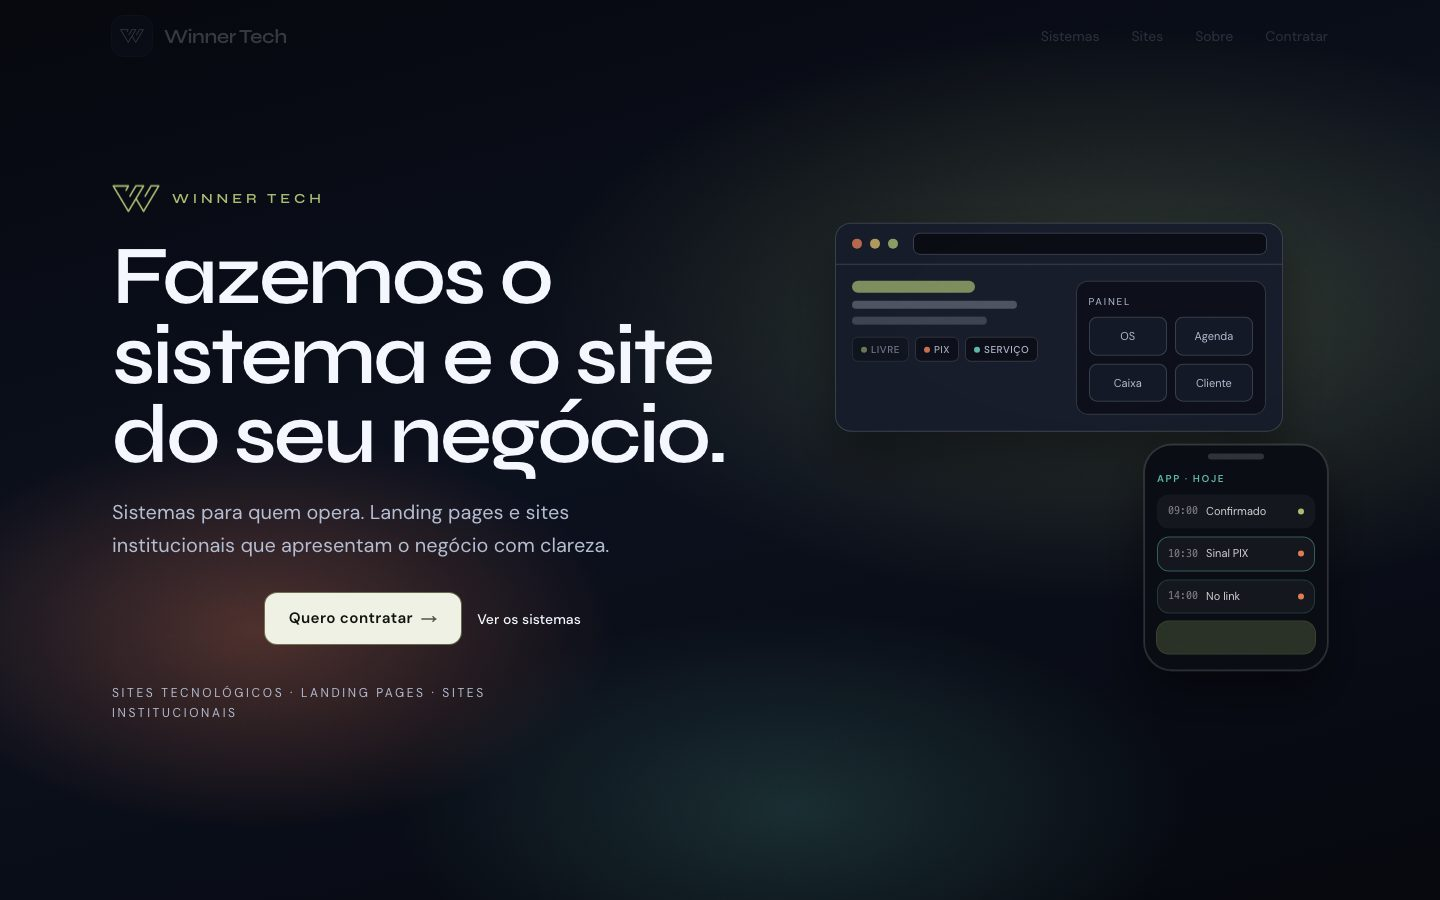
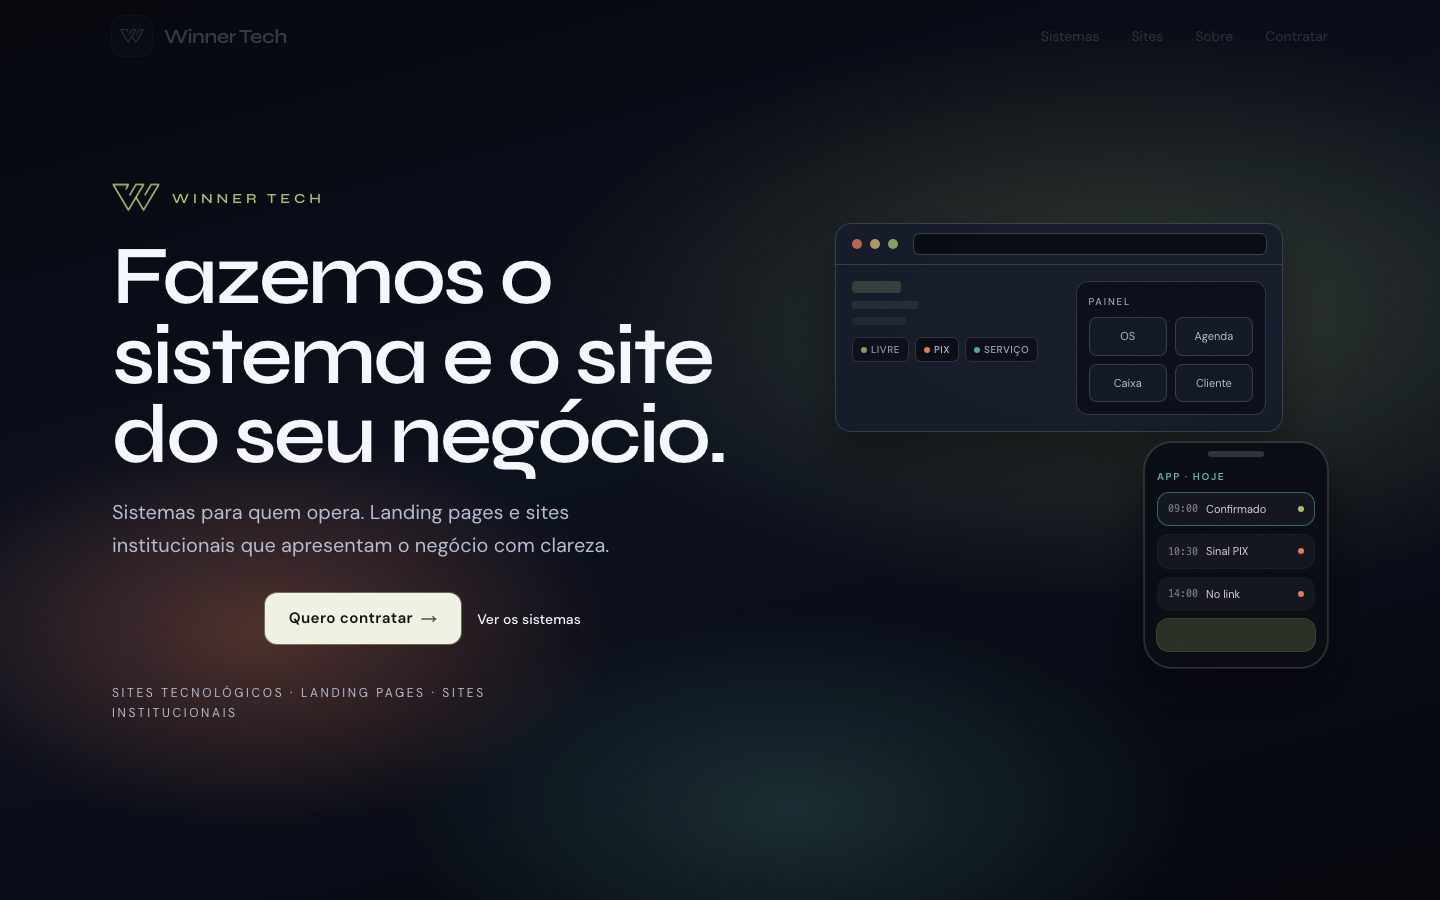
fix(shots): longer settle wait, --only filter; re-shoot winner

diff --git a/scripts/shots.ts b/scripts/shots.ts
@@ -34,6 +34,14 @@ const targets: readonly Target[] = [
   { id: 'winner', dir: path.join(devRoot, 'winner-tech'), live: null, port: 3107 },
 ];
 
+const onlyIdx = process.argv.indexOf('--only');
+const onlyId = onlyIdx >= 0 ? process.argv[onlyIdx + 1] : undefined;
+const selected = onlyId ? targets.filter((t) => t.id === onlyId) : targets;
+if (onlyId && selected.length === 0) {
+  console.error(`--only: id desconhecido "${onlyId}"`);
+  process.exit(1);
+}
+
 const children = new Set<ChildProcess>();
 
 function killGroup(child: ChildProcess, signal: NodeJS.Signals): void {
@@ -103,7 +111,7 @@ async function capture(browser: Browser, url: string, file: string): Promise<voi
     } catch {
       /* sem banner de cookies */
     }
-    await page.waitForTimeout(1500);
+    await page.waitForTimeout(3000); // deixa animacoes de entrada terminarem
     await page.screenshot({ path: file, type: 'jpeg', quality: 82 });
   } finally {
     await page.close();
@@ -144,7 +152,7 @@ async function main(): Promise<void> {
   const missing: string[] = [];
 
   try {
-    for (const target of targets) {
+    for (const target of selected) {
       const file = path.join(outDir, `${target.id}.jpg`);
       if (target.live) {
         try {
